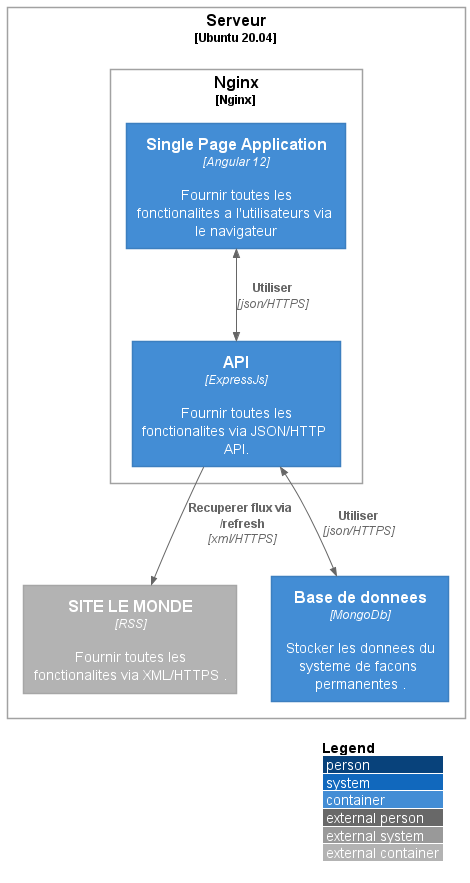
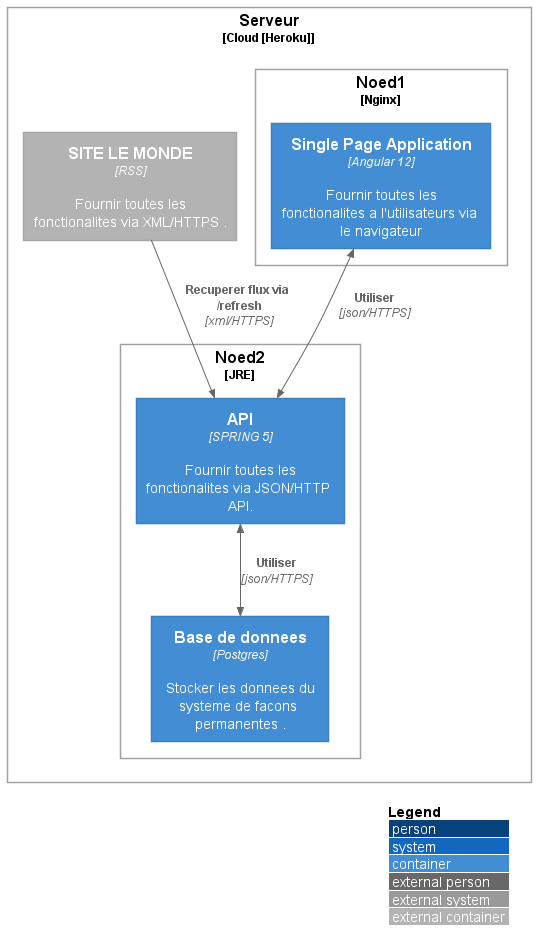
rewrite docs

diff --git a/readme.md b/readme.md
@@ -1,26 +1,27 @@
 # MINI PROJET FLUX RSS
 
-# Introduction
+# Conext du projet
 
-MINI PROJET FLUX RSS :
+MINI PROJET FLUX RSS
+
 PROGRAMME SOFTWARE ENGINEERING EDACY - DIGITAL AFRICA
 
 ## Objectif
 
-L’objectif de ce mini projet est de développer un lecteur de flux RSS
+L’objectif de ce projet est de développer un lecteur de flux RSS
 
-## Besoins   
+## Besoins fonctionnels
 
-- récupérer le flux du 'le monde' [https://www.lemonde.fr/rss/en_continu.xml](https://www.lemonde.fr/rss/en_continu.xml)
+- Récupérer le flux du 'le monde' [https://www.lemonde.fr/rss/en_continu.xml](https://www.lemonde.fr/rss/en_continu.xml)
 - l'afficher sous un format listing avec image et extrait
-- prévoir la pagination
-- pouvoir modifier le titre
-- pouvoir modifier l'extrait
+- Prévoir la pagination
+- Pouvoir modifier le titre
+- Pouvoir modifier l'extrait
 
 ## Contraintes
 
-- Langage front imposé : Angular 
-- Langage back : au choix 
+- Langage front imposé : Angular
+- Langage back : au choix
 - Délai : 2 jours, à rendre au plus tard le jeudi 21 avril à 12h00 GMT
 
 ## Livrables
@@ -29,13 +30,25 @@ L’objectif de ce mini projet est de développer un lecteur de flux RSS
 - Un README qui explique les technologies utilisées et le processus de lancement de l’application
 - Un bonus pour ceux qui pourront partager un lien ou on peut tester (par exemple sur Heroku)
 
+## Technologies Utilisées pour la realisation du miniprojet
+
+## Modélisation : [ModelC4](https://c4model.com/)
+
+La modélisation C4 (de l'anglais « C4 model ») est une technique de notation graphique allégée pour la modélisation
+d'architectures logicielles1,2. Elle est basée sur la décomposition structurelle d'un système en conteneurs et
+composants. La décomposition plus détaillée de ces éléments architecturaux peut alors s'appuyer sur des techniques de
+modélisation existantes telles que le langage de modélisation unifié (UML) ou les diagrammes entité-associations.
+
+  [Source definition](https://fr.wikipedia.org/wiki/Mod%C3%A9lisation_C4)
+
+
 # Terminologies du modelC4
 
 ![C4Model](https://c4model.com/img/abstractions.png)
 
 ### `Person`
 
-Person : les 'Person' sont les différents utilisateurs de  notre système .
+Person : les 'Person' sont les différents utilisateurs de notre système .
 
 ### `System`
 
@@ -43,76 +56,79 @@ Un système est le plus haut niveau d'abstraction du modelC4 et décrit les Beso
 
 ### `Container`
 
-Un `Container` représente quelque chose qui héberge du code ou des données. Un conteneur est quelque chose qui doit être
-exécuté pour que le système fonctionne. En termes réels, un conteneur ressemble  
+Un `Container` représenté quelque chose qui héberge du code ou des données. Un conteneur est quelque chose qui doit être
+exécuté pour que le système fonctionne. En termes réels, un conteneur ressemble
 
 ### `Composant`
 
- Un "composant" est simplement un regroupement de fonctionnalités connexes encapsulées derrière une
-interface bien définie.  
- 
+Un "composant" est simplement un regroupement de fonctionnalités connexes encapsulées derrière une interface bien
+définie.
 
 ### `Code`
 
-Represené  notre MCD (Model conceptuel de données) .
+Representé notre MCD (Model conceptuel de données) .
 
+### Model
 
-# Livrables
-
-- Repositories GIT :
-  Backend (SPRING ) :  https://github.com/coundia/mini_rss_reader_spring
-  Frontend (Angular)  : https://github.com/coundia/mini-rss-reader
-- Lien de tests
-  Front-end : https://mini-rss-reader.herokuapp.com/
-  Bakend Api : https://mini-rss-api.herokuapp.com/api/v1/rss/items
-- Lien Documentation avec le model C4
-  https://github.com/coundia/doc_mini_rss_reader-c4
-
-
-
-## Lancer le projet
-
-### Backend  (SPRING)
-1- Option 1 : passser par la release
-- Telecharger le fichier :  https://github.com/coundia/mini_rss_reader_spring/releases/download/v1.1/mini_rss_reader_spring-v1.1.jar
-- Configurer le JRE de JAVA
-- java -jar mini_rss_reader_spring-v1.1.jar
-
-
-2- Option 2 : passer maven
-- Backend (spring)
-- mvn spring-boot:run
-
-
-
-### front end (angular)
-1- Option 1 : passser par la release
-- Telecharger le dist : https://github.com/coundia/mini-rss-reader/releases/download/v1.1/distV1.1.zip
-- decompresser le 
-- SI vous n'avez de  serveur Apache ou NGINX 
--  - npm install --global http-server
--  - cd distV1 
--  --  http-server -o
-
-
-## Lien de test
-- front end
-- https://mini-rss-reader.herokuapp.com/
-
-- Backend
-- https://mini-rss-api.herokuapp.com/api/v1/rss/items
-- https://mini-rss-api.herokuapp.com/api/v1/rss/refresh
-- https://mini-rss-api.herokuapp.com/api/v1/rss/status
-
-
-## MODEL C4
-
-#Context 
+# Context
 
 ![Conext](context.png)
 
 ## Architecture
+
 ![Architecture](deployment.png)
+
+
+### Backend  ([SPRING](https://spring.io/why-spring))
+
+Spring est un framework Java  open source . 
+- Leger 
+- Development rapide 
+- Bonne communauté
+- Complet (Beaucoup d'outils)
+- 
+# Lancer le backend-end 
+
+1- Option 1 : passer par la release
+
+- télécharger le binaire :  `wget https://github.com/coundia/mini_rss_reader_spring/releases/download/v1.1/mini_rss_reader_spring-v1.1.jar`
+- Configurer le JRE de JAVA
+- `java -jar mini_rss_reader_spring-v1.1.jar`
+
+2- Option 2 : passer maven
+- cloner le projet : `git clone https://github.com/coundia/mini_rss_reader_spring`
+- `mvn spring-boot:run`
+
+- Api Backend
+  - gerer les articles (GET,PATCH,POST,POST) : Lister , modifier etc 
+  - [https://mini-rss-api.herokuapp.com/api/v1/rss/items](https://mini-rss-api.herokuapp.com/api/v1/rss/items)
+  - Recuperer les articles depuis le monde et les mettre dans notre base de donnees
+  - [https://mini-rss-api.herokuapp.com/api/v1/rss/refresh](https://mini-rss-api.herokuapp.com/api/v1/rss/refresh)
+  - Verifier status du serveur (UP)
+  - [https://mini-rss-api.herokuapp.com/api/v1/rss/status](https://mini-rss-api.herokuapp.com/api/v1/rss/status)
+
+### front end (angular)
+
+1- Option 1 : passer par la release
+
+- télécharger le dist : `wget https://github.com/coundia/mini-rss-reader/releases/download/v1.1/distV1.2.zip`
+- décompresser le zip : `unzip distV1.2.zip`
+- SI vous n'avez de serveur Apache ou NGINX
+- `npm install --global http-server`
+- `cd distV1`
+- `http-server -o`
+
+2- Option 2 : passer npm 
+
+- cloner le projet : `git clone https://github.com/coundia/mini-rss-reader`
+- `npm install`
+- `ng serve`
+
+## Lien de test
+
+- Front-end
+- [https://mini-rss-reader.herokuapp.com/](https://mini-rss-reader.herokuapp.com/)
+
 
 
 by coundia
